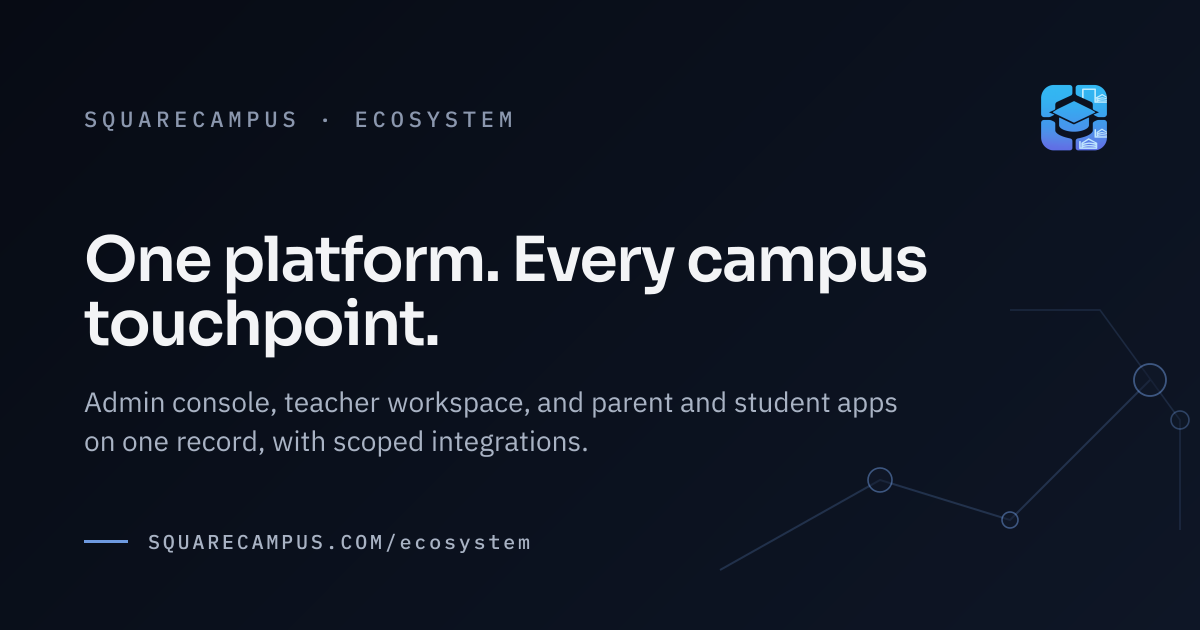
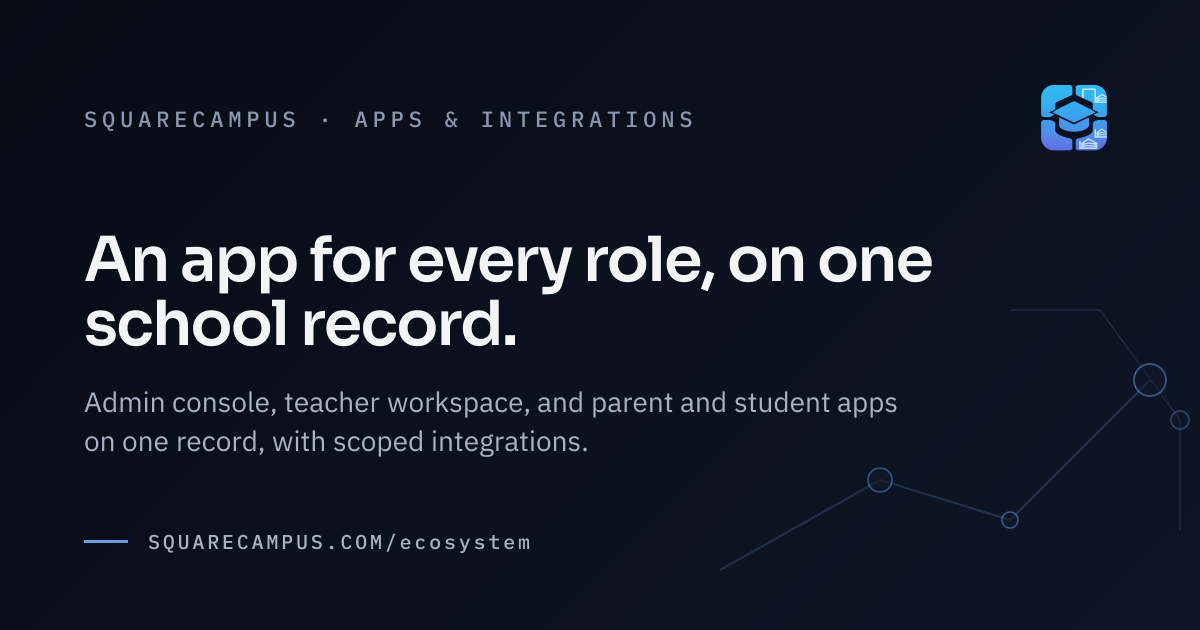
Neutral fee wording, contact order and clearer titles (audit P2)
SC-025, SC-029, SC-034, SC-039, SC-040, SC-041:

- Fee follow-up says "overdue fees" instead of "defaulters" on the fee
  page, its FAQ and in blog prose (a quoted term in a definition-drift
  example is kept).
- /contact lists the mailboxes and the demo route first; the statutory
  particulars stay complete, below them.
- Titles: "School Apps & Integrations" (with a regenerated share card),
  "AEGIS: AI for School Operations", "Book a School Management Software
  Demo".
- The phone field states its purpose. It stays required pending a sales
  decision; no form experiment was run because no measurement exists.

Changed region(s): [[0.0617, 0.3619, 0.8017, 0.573], [0.37, 0.181, 0.5858, 0.2111], [0.2775, 0.181, 0.3392, 0.2111]]

diff --git a/src/content/blog/posts.ts b/src/content/blog/posts.ts
@@ -1232,12 +1232,12 @@ export const allBlogPosts: BlogPost[] = [
         heading: "Fix these before you talk to any vendor",
         paragraphs: [
           "Most school data incidents will never involve a hacker. They involve an account that should have been closed, a chat group that should never have held a marks list, and a spreadsheet that walked out of the building on a personal laptop. Everything in this list costs nothing but attention and a little firmness. Do these before you evaluate any software — partly because they matter more than any feature, and partly because doing them will change what you ask vendors for.",
-          "None of this needs a budget line. It needs an owner — usually whoever manages IT, with the principal’s visible backing, because the hardest part of every item below is social, not technical. Somebody has to tell a senior colleague that the shared login is over, and that the fee-defaulter list is leaving the staff WhatsApp group. That conversation goes far better as policy than as confrontation, which is exactly why it belongs in a checklist the whole school has seen.",
+          "None of this needs a budget line. It needs an owner — usually whoever manages IT, with the principal’s visible backing, because the hardest part of every item below is social, not technical. Somebody has to tell a senior colleague that the shared login is over, and that the overdue-fees list is leaving the staff WhatsApp group. That conversation goes far better as policy than as confrontation, which is exactly why it belongs in a checklist the whole school has seen.",
         ],
         bullets: [
           "End shared logins. A computer four people use under one account means nobody is accountable for anything done on it. Give every staff member their own account, even on the front-desk machine — especially on the front-desk machine.",
           "Revoke access the day someone leaves. Keep a leaver checklist: email, school software, shared drives, WhatsApp groups, and the keys to the records cupboard. An ex-employee with a live account is your single most preventable risk.",
-          "Get student data out of WhatsApp. Marks lists, fee-defaulter lists, medical notes, and admission spreadsheets do not belong in group chats, because a group chat forwards forever and remembers everything. Use it for coordination, not for records.",
+          "Get student data out of WhatsApp. Marks lists, overdue-fee lists, medical notes, and admission spreadsheets do not belong in group chats, because a group chat forwards forever and remembers everything. Use it for coordination, not for records.",
           "Stop exports to personal devices and drives. A spreadsheet on a personal laptop leaves the institution with the laptop. If staff need data at home, the answer is controlled access to the system, not a copy.",
           "Lock the paper too. Admission files, transfer certificates, and health records in an unlocked cupboard are a data breach that requires no computer at all.",
           "Switch on the basics everywhere: screen locks, software updates, a different password for every system, and two-step sign-in — a second check at login, such as a code on a phone — wherever it is offered.",
@@ -2246,7 +2246,7 @@ export const allBlogPosts: BlogPost[] = [
         },
         paragraphs: [
           "The first year is expensive. The second year is where the structure reveals itself. The renewal letter arrives with an escalation of ten percent, which is inside the eight-to-twelve percent range that published guides describe as common. The annual maintenance charge is calculated as a percentage of the 'list value' of the modules, not of the ₹18,000 the school actually paid, so it is larger than the licence itself. The school has changed boards for its senior section; the report-card templates need 'reconfiguration', which is chargeable. Storage of scanned documents has crossed a quota nobody knew existed.",
-          "Then there is the quiet arithmetic of dependency. The SMS sender ID that parents recognise belongs to the vendor. The Play Store listing parents installed belongs to the vendor. The receipt numbering sequence, the one the auditor checks, lives inside the vendor's database. The custom fee-defaulter report the accountant relies on was built by the vendor as a paid customisation and is not exportable. Every one of these makes leaving a little more expensive than staying, and that, not the price, is the product being sold.",
+          "Then there is the quiet arithmetic of dependency. The SMS sender ID that parents recognise belongs to the vendor. The Play Store listing parents installed belongs to the vendor. The receipt numbering sequence, the one the auditor checks, lives inside the vendor's database. The custom overdue-fees report the accountant relies on was built by the vendor as a paid customisation and is not exportable. Every one of these makes leaving a little more expensive than staying, and that, not the price, is the product being sold.",
         ],
       },
       {
@@ -2341,7 +2341,7 @@ export const allBlogPosts: BlogPost[] = [
           "Run these with your own roles, in the vendor's sandbox, during the evaluation. Each one takes a minute and each one has a right answer that is easy to check.",
         ],
         bullets: [
-          "Scope: log in as a class teacher and ask about another class's fee defaulters. Governed intelligence declines, because the teacher's role cannot see that. A bolted-on chatbot answers, because the copy has no roles.",
+          "Scope: log in as a class teacher and ask about another class's overdue fees. Governed intelligence declines, because the teacher's role cannot see that. A bolted-on chatbot answers, because the copy has no roles.",
           "Source: ask a question and then ask 'which records did you use?'. Governed intelligence points at the records, with a link the role can open. A chatbot restates the answer.",
           "Freshness: change one attendance mark, then ask the question that depends on it. Governed intelligence reflects the change now. A chatbot reflects it after the next sync, if there is one.",
           "Audit: ask the vendor to show the question you just asked in the audit log, with your name and time against it. If it is not there, nothing you ask will ever be there.",

diff --git a/src/app/(company)/contact/page.tsx b/src/app/(company)/contact/page.tsx
@@ -60,9 +60,49 @@ export default function ContactPage() {
         titleSize="page"
         eyebrow="Contact"
         title="Talk to the company behind SquareCampus."
-        body="Registered particulars, the right mailbox for what you need, and a guided demo when you are ready to see the system run."
+        body="The right mailbox for what you need, a demo when you are ready to see the system, and the company's registered particulars."
       >
         <div className="grid gap-6 lg:grid-cols-[1.1fr_0.9fr]">
+          {/* Contact choices first, registered particulars after (audit
+              SC-029): most visitors want the right mailbox. The statutory
+              particulars stay complete, below on phones and beside on desktop. */}
+          <div className="grid content-start gap-4">
+            <div className="surface-panel rounded-[1.6rem] p-6">
+              <p className="section-kicker">Reach the right desk</p>
+              <ul className="mt-5 grid gap-4">
+                {channels.map(({ icon: Icon, ...channel }) => (
+                  <li key={channel.href} className="flex items-start gap-3">
+                    <span className="mt-0.5 flex size-8 shrink-0 items-center justify-center rounded-full bg-(--surface-strong) text-(--brand)">
+                      <Icon className="size-3.5" aria-hidden="true" />
+                    </span>
+                    <div>
+                      <p className="text-xs text-muted-foreground">{channel.label}</p>
+                      <a href={channel.href} className="text-sm text-foreground hover:underline">
+                        {channel.value}
+                      </a>
+                    </div>
+                  </li>
+                ))}
+              </ul>
+            </div>
+
+            <div className="surface-panel rounded-[1.6rem] p-6">
+              <p className="section-kicker">Evaluating SquareCampus?</p>
+              <p className="mt-3 text-sm leading-6 text-muted-foreground">
+                A guided walkthrough is the fastest way to judge whether the system fits how your
+                institution actually runs.
+              </p>
+              <div className="mt-5 flex flex-col gap-3 sm:flex-row">
+                <ButtonLink href={siteCtas.demoHref} label={ctaLabels.demo} />
+                <ButtonLink
+                  href={siteCtas.pricingHref}
+                  label="See pricing model"
+                  variant="secondary"
+                />
+              </div>
+            </div>
+          </div>
+
           <div className="surface-panel rounded-[1.6rem] p-6 sm:p-8">
             <div className="flex items-center gap-3">
               <span className="flex size-10 items-center justify-center rounded-full bg-(--surface-strong) text-(--brand)">
@@ -123,43 +163,6 @@ export default function ContactPage() {
               {company.incorporationStatus}. These particulars are published under section 12(3) of
               the Companies Act, 2013.
             </p>
-          </div>
-
-          <div className="grid content-start gap-4">
-            <div className="surface-panel rounded-[1.6rem] p-6">
-              <p className="section-kicker">Reach the right desk</p>
-              <ul className="mt-5 grid gap-4">
-                {channels.map(({ icon: Icon, ...channel }) => (
-                  <li key={channel.href} className="flex items-start gap-3">
-                    <span className="mt-0.5 flex size-8 shrink-0 items-center justify-center rounded-full bg-(--surface-strong) text-(--brand)">
-                      <Icon className="size-3.5" aria-hidden="true" />
-                    </span>
-                    <div>
-                      <p className="text-xs text-muted-foreground">{channel.label}</p>
-                      <a href={channel.href} className="text-sm text-foreground hover:underline">
-                        {channel.value}
-                      </a>
-                    </div>
-                  </li>
-                ))}
-              </ul>
-            </div>
-
-            <div className="surface-panel rounded-[1.6rem] p-6">
-              <p className="section-kicker">Evaluating SquareCampus?</p>
-              <p className="mt-3 text-sm leading-6 text-muted-foreground">
-                A guided walkthrough is the fastest way to judge whether the system fits how your
-                institution actually runs.
-              </p>
-              <div className="mt-5 flex flex-col gap-3 sm:flex-row">
-                <ButtonLink href={siteCtas.demoHref} label={ctaLabels.demo} />
-                <ButtonLink
-                  href={siteCtas.pricingHref}
-                  label="See pricing model"
-                  variant="secondary"
-                />
-              </div>
-            </div>
           </div>
         </div>
       </SectionShell>

diff --git a/src/content/intent-pages.ts b/src/content/intent-pages.ts
@@ -216,7 +216,7 @@ export const intentPages: IntentPage[] = [
       "Partial payments and instalment plans without losing the original due.",
       "Late-fee rules that respect board holidays and school-specific grace periods.",
       "Trust-level visibility across campuses with campus-level execution.",
-      "Defaulter follow-up as a workflow with an owner, not a printed list.",
+      "Follow-up on overdue fees as a workflow with an owner, not a printed list.",
     ],
     evaluation: [
       "Can one student carry a term plan, a concession and a transport slab without a manual override?",
@@ -252,7 +252,7 @@ export const intentPages: IntentPage[] = [
           "Online payments through a payment gateway, counter cash, cheques and bank transfers post to one ledger. Gateway options are confirmed during scoping.",
       },
       {
-        question: "How are defaulters handled?",
+        question: "How is follow-up on overdue fees handled?",
         answer:
           "Outstanding dues become a follow-up workflow with reminders in context, an owner, and a record of every contact, so leadership sees the state without chasing the office.",
       },

diff --git a/src/app/(company)/ecosystem/layout.tsx b/src/app/(company)/ecosystem/layout.tsx
@@ -5,15 +5,15 @@ import { createPageMetadata } from "@/lib/seo";
 // Target: Users looking for comprehensive/integrated solutions
 
 export const metadata: Metadata = createPageMetadata({
-  title: "School Management Ecosystem | Apps, Integrations and Platform",
+  title: "School Apps & Integrations",
   description:
     "The SquareCampus ecosystem: admin console, teacher workspace, and parent and student apps on one record, with integrations to the tools you keep scoped and confirmed in writing.",
   path: "/ecosystem",
   ogImage: "https://squarecampus.com/og/ecosystem.png",
-  ogTitle: "School Ecosystem | SquareCampus Platform",
+  ogTitle: "School Apps & Integrations | SquareCampus",
   ogDescription:
     "Admin console, teacher workspace, and parent and student apps on one record, with scoped integrations to the tools you keep.",
-  twitterTitle: "School Management Ecosystem | SquareCampus",
+  twitterTitle: "School Apps & Integrations | SquareCampus",
   twitterDescription:
     "Admin console, teacher workspace, parent and student apps, and scoped integrations — on one record.",
 });

diff --git a/src/app/(company)/demo/page.tsx b/src/app/(company)/demo/page.tsx
@@ -22,7 +22,7 @@ import { createPageMetadata } from "@/lib/seo";
  * /demo/?intent=founding-partner links are forwarded before first paint.
  */
 export const metadata: Metadata = createPageMetadata({
-  title: "Book a Guided Demo",
+  title: "Book a School Management Software Demo",
   description:
     "Book a guided SquareCampus demo and see how the School OS maps to admissions, academics, finance, communication, and institutional operations.",
   path: "/demo",
@@ -61,7 +61,7 @@ export default function DemoPage() {
       <script dangerouslySetInnerHTML={{ __html: legacyIntentRedirectScript }} />
 
       <PageSchema
-        name="Book a Guided Demo"
+        name="Book a School Management Software Demo"
         description="Request a guided SquareCampus walkthrough mapped to the institution's own admissions, academics, finance, communication and governance workflows."
         path="/demo"
       />

diff --git a/src/app/(company)/aegis/page.tsx b/src/app/(company)/aegis/page.tsx
@@ -31,7 +31,7 @@ import {
 } from "@/lib/seo";
 
 export const metadata: Metadata = createPageMetadata({
-  title: "AEGIS — Governed Intelligence for School Operations",
+  title: "AEGIS: AI for School Operations",
   description:
     "AEGIS is the intelligence inside SquareCampus, not a chatbot on an ERP: read-only, plain-language answers from the institution's own records, in role scope, with an audit trail on every question.",
   path: "/aegis",
@@ -125,7 +125,7 @@ const structuredData = {
   "@context": "https://schema.org",
   "@graph": [
     createWebPageSchema({
-      name: "AEGIS — Governed Intelligence for School Operations",
+      name: "AEGIS: AI for School Operations",
       description:
         "AEGIS is SquareCampus' governed intelligence layer for school leaders: role-aware answers, exception detection, and audit-ready decision support.",
       url: `${SEO_CONFIG.baseUrl}/aegis`,

diff --git a/src/components/site/contact-form.tsx b/src/components/site/contact-form.tsx
@@ -659,7 +659,11 @@ export function ContactForm({ intent = "demo" }: { intent?: FormIntent }) {
                     onChange={(event) => set("email", event.target.value)}
                   />
                 </Field>
-                <Field id={`${ids}-phone`} label="Phone" error={errors.phone}>
+                <Field
+                  id={`${ids}-phone`}
+                  label="Phone, to arrange the session"
+                  error={errors.phone}
+                >
                   <input
                     id={`${ids}-phone`}
                     name="phone"
